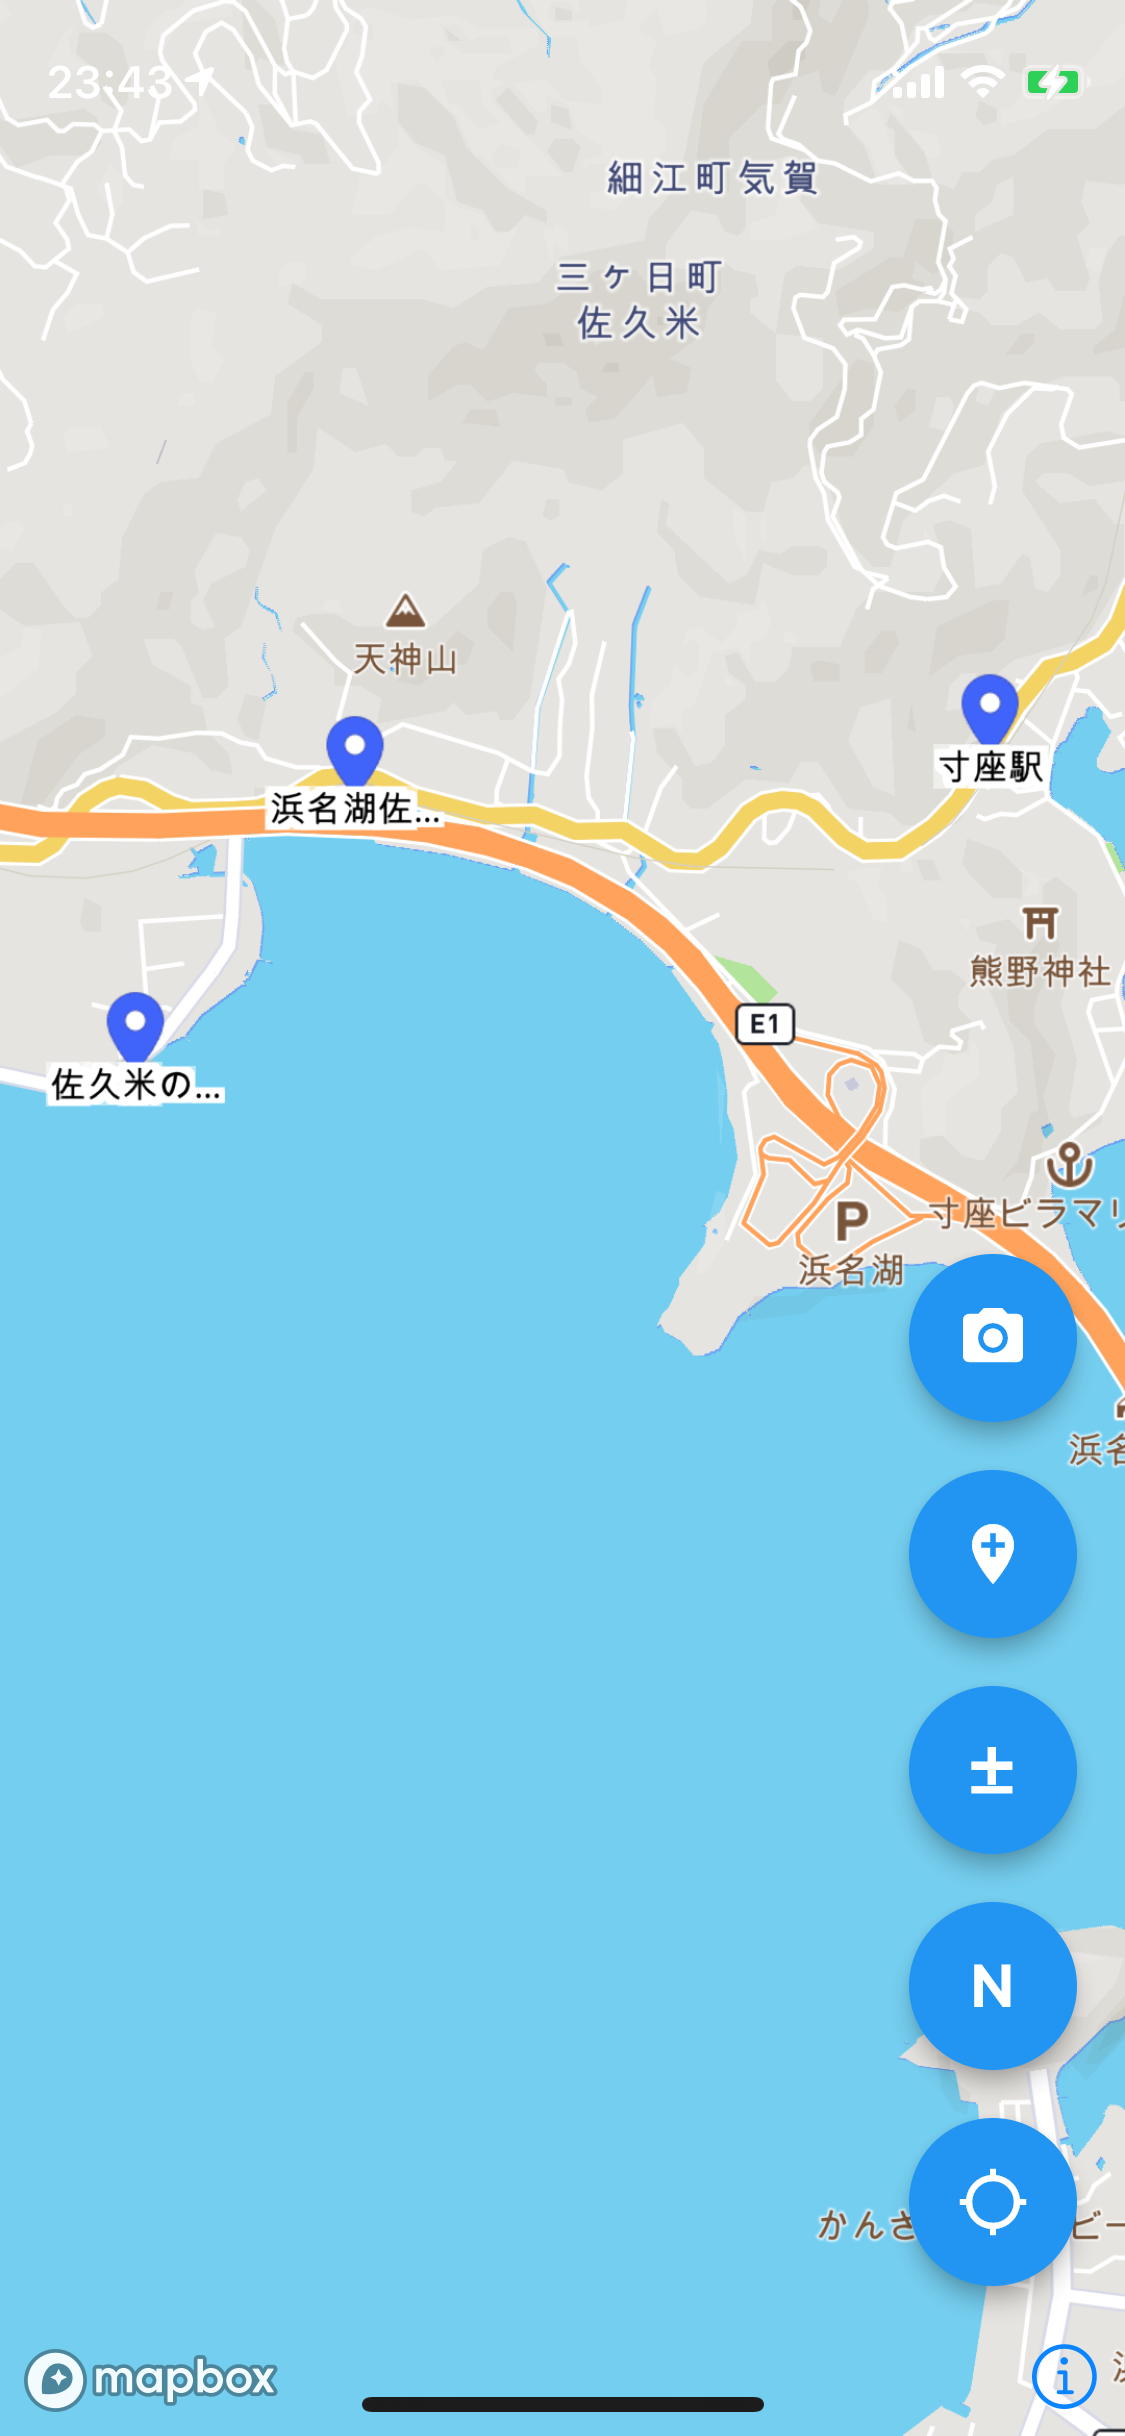
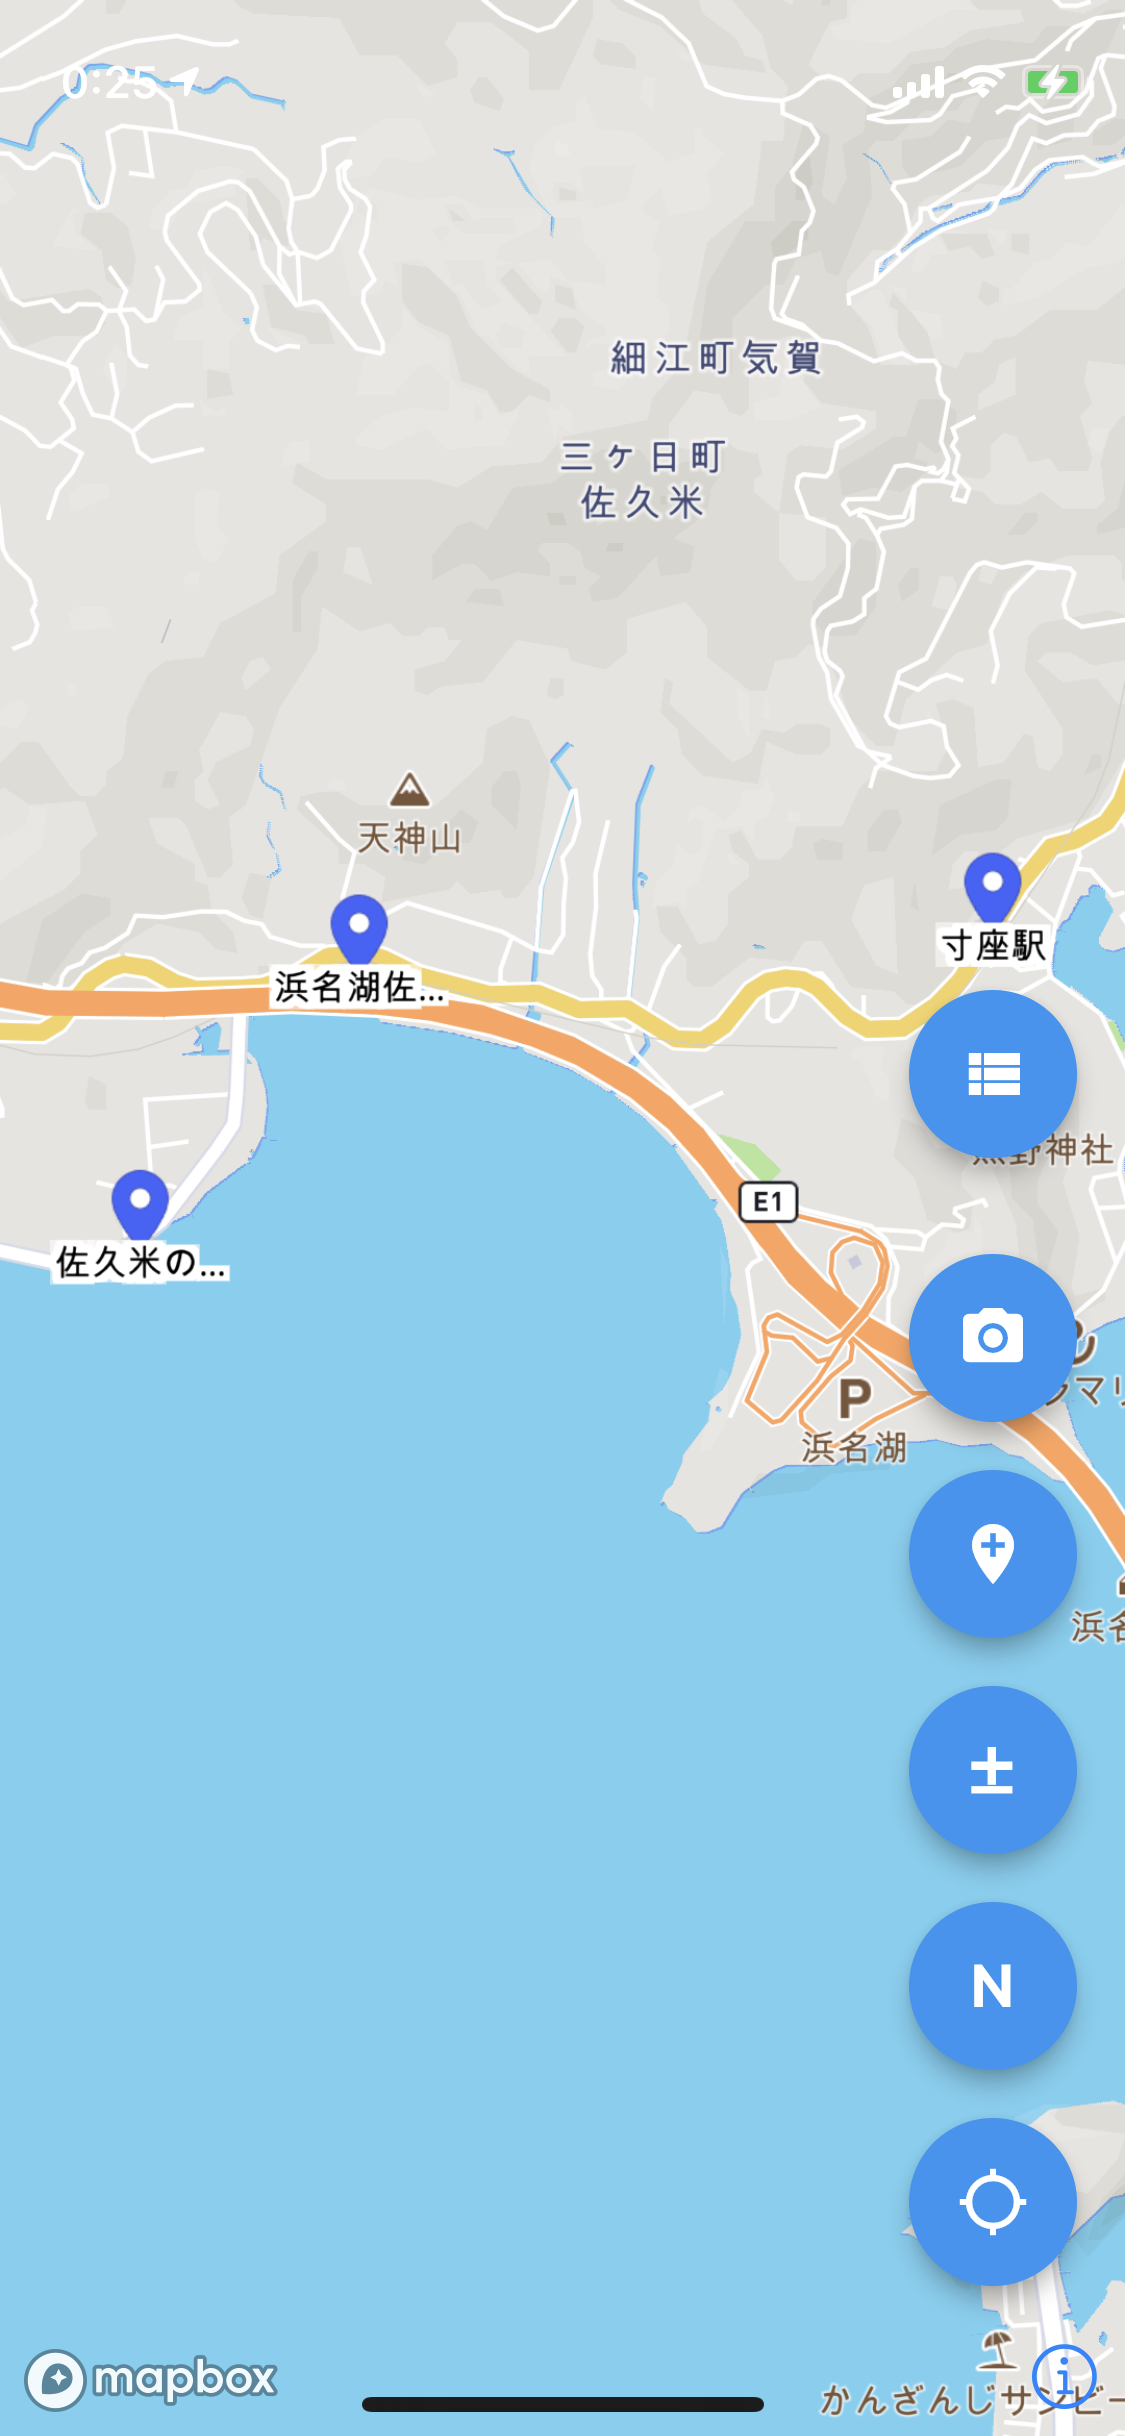
ピン一覧機能を追加

diff --git a/lib/map_page.dart b/lib/map_page.dart
@@ -83,6 +83,14 @@ class FullSymbolInfo {
       this.imagePath);
 }
 
+// Symbol 一覧表示画面に渡す内容一式
+class FullSymbolList {
+  List<SymbolInfoWithLatLng> infoList;
+  Function formatLabel;
+
+  FullSymbolList(this.infoList, this.formatLabel);
+}
+
 class _MapPageState extends State<MapPage> {
   final Completer<MapboxMapController> _controller = Completer();
   final Location _locationService = Location();
@@ -95,6 +103,8 @@ class _MapPageState extends State<MapPage> {
   final double _initialLong = 139.6917337;
   // ズームのデフォルト値
   final double _initialZoom = 13.5;
+  // Symbol 一覧から遷移したときのズーム値
+  final double _detailZoom = 16.0;
   // 方位のデフォルト値（北）
   final double _initialBearing = 0.0;
   // 全 Symbol 情報（DB 主キーへの変換マップ）
@@ -212,6 +222,18 @@ class _MapPageState extends State<MapPage> {
       //       Icons.delete,
       //     )),
       // const Gap(32),
+      FloatingActionButton(
+        heroTag: 'moveToSymbolPosition',
+        backgroundColor: Colors.blue,
+        onPressed: () {
+          // 全 Symbol 一覧を表示して選択した Symbol の位置へ移動
+          _moveToSymbolPosition();
+        },
+        child: Icon(_symbolInfoMap.isNotEmpty
+            ? Icons.view_list
+            : Icons.view_list_outlined),
+      ),
+      const Gap(32),
       FloatingActionButton(
         heroTag: 'addPictureFromCameraAndMark',
         backgroundColor: Colors.blue,
@@ -559,6 +581,34 @@ class _MapPageState extends State<MapPage> {
         }
       });
     }
+  }
+
+  // 全 Symbol 一覧を表示して選択した Symbol の位置へ移動
+  _moveToSymbolPosition() async {
+    if (_symbolInfoMap.isNotEmpty) {
+      final List<SymbolInfoWithLatLng> infoList = await _fetchRecords();
+      final latLng = await Navigator.of(navigatorKey.currentContext!).pushNamed(
+          '/listSymbol',
+          arguments: FullSymbolList(infoList, _formatLabel));
+      if (latLng is LatLng) {
+        setState(() {
+          _gpsTracking = false;
+        });
+        await _moveCameraToDetailPoint(latLng);
+      }
+    }
+  }
+
+  // 地図の中心を移動して詳細表示
+  _moveCameraToDetailPoint(LatLng latLng) {
+    _controller.future.then((mapboxMap) async {
+      await mapboxMap.moveCamera(CameraUpdate.zoomTo(_detailZoom));
+      if (Platform.isAndroid) {
+        mapboxMap.moveCamera(CameraUpdate.newLatLng(latLng));
+      } else if (Platform.isIOS) {
+        mapboxMap.animateCamera(CameraUpdate.newLatLng(latLng));
+      }
+    });
   }
 
   // 地図をタップしたときの処理

diff --git a/lib/list_symbol_page.dart b/lib/list_symbol_page.dart
@@ -1,0 +1,85 @@
+import 'package:flutter/material.dart';
+import 'package:gap/gap.dart';
+import 'package:mapbox_gl/mapbox_gl.dart';
+
+import 'package:maptool/map_page.dart';
+
+class ListSymbolPage extends StatefulWidget {
+  const ListSymbolPage({Key? key}) : super(key: key);
+
+  @override
+  _ListSymbolPageState createState() => _ListSymbolPageState();
+}
+
+class _ListSymbolPageState extends State<ListSymbolPage> {
+  List<SymbolInfoWithLatLng> _infoList = [];
+  Function? _formatLabel;
+
+  @override
+  Widget build(BuildContext context) {
+    final args = ModalRoute.of(context)!.settings.arguments as FullSymbolList;
+    _infoList = args.infoList;
+    _formatLabel = args.formatLabel;
+
+    return Scaffold(
+      appBar: AppBar(
+        title: const Text('ピン情報一覧'),
+      ),
+      body: _makeDisplayForm(),
+    );
+  }
+
+  // 表示フォームウィジェット
+  Widget _makeDisplayForm() {
+    return Container(
+      padding: const EdgeInsets.symmetric(horizontal: 20.0),
+      child: Align(
+        alignment: Alignment.topLeft,
+        child: Column(
+          mainAxisSize: MainAxisSize.min,
+          crossAxisAlignment: CrossAxisAlignment.start,
+          children: [
+            const Gap(12),
+            Flexible(
+              child: ListView.builder(
+                itemCount: _infoList.length,
+                itemBuilder: (BuildContext context, int index) {
+                  return _symbolInfoItem(_infoList[index]);
+                },
+              ),
+            ),
+          ],
+        ),
+      ),
+    );
+  }
+
+  // 画像表示ウィジェット
+  Widget _symbolInfoItem(SymbolInfoWithLatLng symbolInfoWithLatLng) {
+    final String title =
+        _formatLabel!(symbolInfoWithLatLng.symbolInfo.title, 15);
+    return Card(
+      child: Container(
+        decoration: BoxDecoration(
+          border: Border.all(width: 1.0, color: Colors.blue),
+        ),
+        child: ListTile(
+          leading: (const Icon(
+            Icons.location_on,
+            size: 30.0,
+          )),
+          title: Text(title),
+          subtitle: Text(symbolInfoWithLatLng.symbolInfo.dateTime
+              .toString()
+              .substring(0, 19)),
+          onTap: () {
+            Navigator.pop(
+                context,
+                LatLng(symbolInfoWithLatLng.latLng.latitude,
+                    symbolInfoWithLatLng.latLng.longitude));
+          },
+        ),
+      ),
+    );
+  }
+}

diff --git a/lib/main.dart b/lib/main.dart
@@ -3,6 +3,7 @@ import 'package:flutter/material.dart';
 import 'package:maptool/edit_symbol_info_page.dart';
 import 'package:maptool/display_picture_page.dart';
 import 'package:maptool/display_symbol_info_page.dart';
+import 'package:maptool/list_symbol_page.dart';
 import 'package:maptool/map_page.dart';
 
 final navigatorKey = GlobalKey<NavigatorState>();
@@ -17,6 +18,7 @@ void main() {
         '/displaySymbol': (BuildContext context) =>
             const DisplaySymbolInfoPage(),
         '/displayPicture': (BuildContext context) => const DisplayPicturePage(),
+        '/listSymbol': (BuildContext context) => const ListSymbolPage(),
       },
       navigatorKey: navigatorKey,
     ),

diff --git a/lib/display_picture_page.dart b/lib/display_picture_page.dart
@@ -54,10 +54,10 @@ class _DisplayPicturePageState extends State<DisplayPicturePage> {
               children: [
                 const Gap(12),
                 (file != null
-                    ? Image.file(file)
+                    ? Image.file(file, height: 360.0, fit: BoxFit.scaleDown)
                     : const Icon(
                         Icons.no_photography,
-                        size: 180.0,
+                        size: 240.0,
                       )),
                 const Gap(12),
                 Text(_picture!.dateTime.toString().substring(0, 19),

diff --git a/README.md b/README.md
@@ -11,10 +11,11 @@
 
  - Modify the detail information about pin.（ピンの詳細情報変更）
  - Take photographs (related to pin).（ピンに関連する写真撮影）
+ - List all pins.（ピン一覧）
 
 **In development:**（開発中の機能）
 
- - List all pins.（ピン一覧）
+ - Search pins (with keywords).（ピンのキーワード検索）
 
 ![画面例](map_image.png "画面例")
 
@@ -58,7 +59,7 @@ dependency_overrides:
  - **Edit '`android/build.gradle`'** ( for Android / in `android` -> `defaultConfig` )
 
 ```json:build.gradle
-        minSdkVersion 20
+        minSdkVersion 21
         multiDexEnabled true
 ```
 
@@ -131,3 +132,4 @@ password [Mapbox Access Token or Secret Token here]
     - [lib/display_symbol_info_page.dart](lib/display_symbol_info_page.dart)
     - [lib/edit_symbol_info_page.dart](lib/edit_symbol_info_page.dart)
     - [lib/display_picture_page.dart](lib/display_picture_page.dart)
+    - [lib/list_symbol_page.dart](lib/list_symbol_page.dart)
